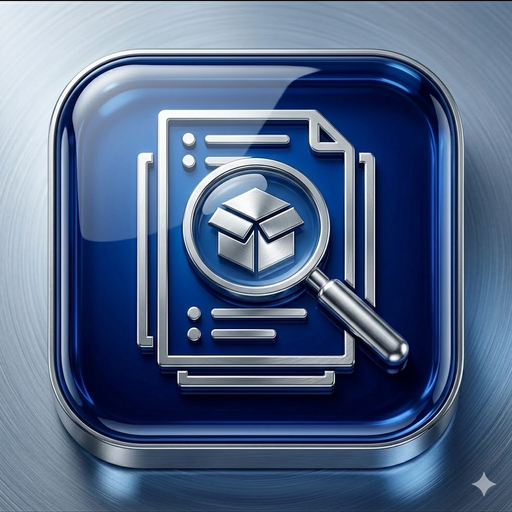
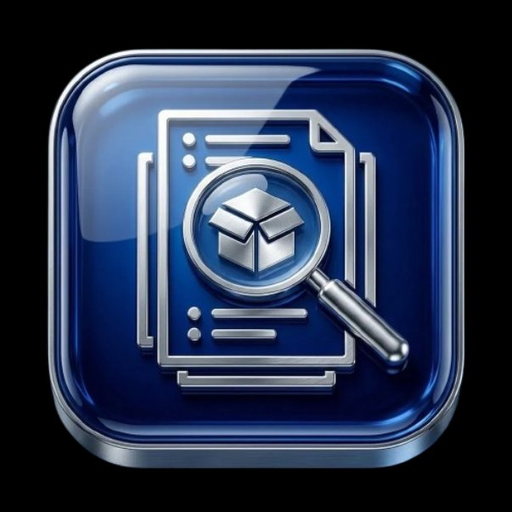
Add files via upload

diff --git a/index.html b/index.html
@@ -27,8 +27,8 @@
   </header>
 
   <nav class="tabs">
-    <button class="tab active" data-tab="add" onclick="switchTab('add')">+ บันทึก</button>
-    <button class="tab" data-tab="history" onclick="switchTab('history')">ประวัติ</button>
+    <button class="tab active" data-tab="add" onclick="switchTab('add')">+ Record</button>
+    <button class="tab" data-tab="history" onclick="switchTab('history')">History</button>
   </nav>
 
   <!-- ADD PANE -->
@@ -42,45 +42,45 @@
         </div>
         <div class="field">
           <label>Code <span class="req">*</span></label>
-          <input type="text" id="f-code" placeholder="SP-001" />
+          <input type="text" id="f-code" placeholder="200xxx000000" />
         </div>
         <div class="field">
           <label>Batch No. <span class="req">*</span></label>
-          <input type="text" id="f-batch" placeholder="BN-2024-01" />
+          <input type="text" id="f-batch" placeholder="22xxxxxxxx" />
         </div>
       </div>
       <div class="field">
-        <label>Sampling Name <span class="req">*</span></label>
-        <input type="text" id="f-name" placeholder="ชื่อตัวอย่าง" />
+        <label>Inspector <span class="req">*</span></label>
+        <input type="text" id="f-name" placeholder="ชื่อผู้ตรวจสอบ" />
       </div>
     </div>
 
     <div class="card">
-      <p class="sec-label">รูปภาพ</p>
+      <p class="sec-label">Picture</p>
       <div class="grid3">
         <div class="field">
-          <label>Photo 1</label>
+          <label>Picture 1</label>
           <div class="photo-box" id="pb1" onclick="document.getElementById('fi1').click()">
             <svg width="24" height="24" viewBox="0 0 24 24" fill="none" stroke="currentColor" stroke-width="1.5"><rect x="3" y="3" width="18" height="18" rx="2"/><circle cx="8.5" cy="8.5" r="1.5"/><path d="m21 15-5-5L5 21"/></svg>
-            <span>เลือกรูป</span>
+            <span>Add Picture</span>
             <input type="file" id="fi1" accept="image/*" onchange="previewPhoto(this,'pb1','d1')" />
           </div>
           <input type="hidden" id="d1" />
         </div>
         <div class="field">
-          <label>Photo 2</label>
+          <label>Picture 2</label>
           <div class="photo-box" id="pb2" onclick="document.getElementById('fi2').click()">
             <svg width="24" height="24" viewBox="0 0 24 24" fill="none" stroke="currentColor" stroke-width="1.5"><rect x="3" y="3" width="18" height="18" rx="2"/><circle cx="8.5" cy="8.5" r="1.5"/><path d="m21 15-5-5L5 21"/></svg>
-            <span>เลือกรูป</span>
+            <span>Add Picture</span>
             <input type="file" id="fi2" accept="image/*" onchange="previewPhoto(this,'pb2','d2')" />
           </div>
           <input type="hidden" id="d2" />
         </div>
         <div class="field">
-          <label>Photo 3</label>
+          <label>Picture 3</label>
           <div class="photo-box" id="pb3" onclick="document.getElementById('fi3').click()">
             <svg width="24" height="24" viewBox="0 0 24 24" fill="none" stroke="currentColor" stroke-width="1.5"><rect x="3" y="3" width="18" height="18" rx="2"/><circle cx="8.5" cy="8.5" r="1.5"/><path d="m21 15-5-5L5 21"/></svg>
-            <span>เลือกรูป</span>
+            <span>Add Picture</span>
             <input type="file" id="fi3" accept="image/*" onchange="previewPhoto(this,'pb3','d3')" />
           </div>
           <input type="hidden" id="d3" />
@@ -89,8 +89,8 @@
     </div>
 
     <div class="btn-row">
-      <button class="btn-outline" onclick="clearForm()">ล้างข้อมูล</button>
-      <button class="btn-primary" onclick="saveRecord()">💾 บันทึก</button>
+      <button class="btn-outline" onclick="clearForm()">Clear</button>
+      <button class="btn-primary" onclick="saveRecord()">💾 Save</button>
     </div>
   </div>
 
@@ -101,7 +101,7 @@
       <div class="stat"><div class="stat-n" id="st-found">—</div><div class="stat-l">ผลค้นหา</div></div>
     </div>
     <div class="search-row">
-      <input type="text" id="sq" placeholder="ค้นหา Code / Batch / ชื่อ..." oninput="renderList()" />
+      <input type="text" id="sq" placeholder="ค้นหา Code / Batch / Inspector" oninput="renderList()" />
       <input type="date" id="sd" oninput="renderList()" />
     </div>
     <div class="export-row">
@@ -114,13 +114,13 @@
 <!-- PIN MODAL -->
 <div class="pin-overlay" id="pin-modal">
   <div class="pin-box">
-    <div class="pin-icon">🔒</div>
-    <div class="pin-title">ใส่รหัสผ่านก่อนดำเนินการ</div>
-    <input type="password" id="pin-input" class="pin-input" placeholder="รหัสผ่าน" maxlength="10" onkeydown="pinKeydown(event)" inputmode="numeric" />
-    <div class="pin-error" id="pin-error">รหัสผ่านไม่ถูกต้อง กรุณาลองใหม่</div>
+    <div class="pin-icon">🔐</div>
+    <div class="pin-title">Enter password to continue</div>
+    <input type="password" id="pin-input" class="pin-input" placeholder="Password" maxlength="10" onkeydown="pinKeydown(event)" inputmode="numeric" />
+    <div class="pin-error" id="pin-error">Incorrect password. Please try again.</div>
     <div class="pin-btns">
-      <button class="btn-outline" onclick="closePinModal()">ยกเลิก</button>
-      <button class="btn-primary" onclick="submitPin()">ยืนยัน</button>
+      <button class="btn-outline" onclick="closePinModal()">Cancel</button>
+      <button class="btn-primary" onclick="submitPin()">Confirm</button>
     </div>
   </div>
 </div>
@@ -129,7 +129,7 @@
 <div class="lightbox" id="lightbox" onclick="closeLightbox()">
   <div class="lightbox-inner" onclick="event.stopPropagation()">
     <img id="lb-img" src="" alt="รูปขยาย" />
-    <button class="btn-outline" onclick="closeLightbox()" style="margin-top:10px;width:100%">ปิด</button>
+    <button class="btn-outline" onclick="closeLightbox()" style="margin-top:10px;width:100%">Close</button>
   </div>
 </div>
 